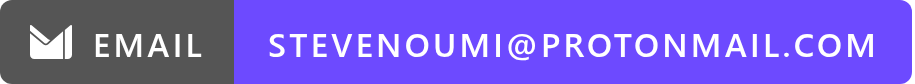
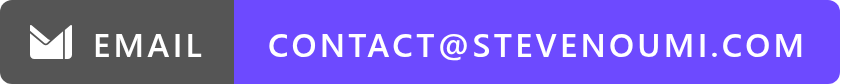
Contact email: contact@stevenoumi.com

Changed region(s): [[0.0308, 0.0, 0.9561, 1.0], [0.987, 0.9286, 1.0, 1.0], [0.987, 0.0, 1.0, 0.0714]]

diff --git a/README.md b/README.md
@@ -8,7 +8,7 @@
 <p align="center">
 <a href="https://www.linkedin.com/in/stevenoumi"><picture><source media="(max-width: 600px)" srcset="assets/badges/linkedin-m.png"><img src="assets/badges/linkedin.png" height="28" alt="LinkedIn: stevenoumi"></picture></a>
 <a href="https://gitlab.com/stevenoumi"><picture><source media="(max-width: 600px)" srcset="assets/badges/gitlab-m.png"><img src="assets/badges/gitlab.png" height="28" alt="GitLab: stevenoumi"></picture></a>
-<a href="mailto:stevenoumi@protonmail.com"><picture><source media="(max-width: 600px)" srcset="assets/badges/email-m.png"><img src="assets/badges/email.png" height="28" alt="Email: stevenoumi@protonmail.com"></picture></a>
+<a href="mailto:contact@stevenoumi.com"><picture><source media="(max-width: 600px)" srcset="assets/badges/email-m.png"><img src="assets/badges/email.png" height="28" alt="Email: contact@stevenoumi.com"></picture></a>
 </p>
 
 ### Hi, I'm Steve
@@ -64,5 +64,5 @@ Open to conversations about AI, cloud, innovation and entrepreneurship.
 <p align="center">
 <a href="https://www.linkedin.com/in/stevenoumi"><picture><source media="(max-width: 600px)" srcset="assets/badges/linkedin-m.png"><img src="assets/badges/linkedin.png" height="28" alt="LinkedIn: stevenoumi"></picture></a>
 <a href="https://gitlab.com/stevenoumi"><picture><source media="(max-width: 600px)" srcset="assets/badges/gitlab-m.png"><img src="assets/badges/gitlab.png" height="28" alt="GitLab: stevenoumi"></picture></a>
-<a href="mailto:stevenoumi@protonmail.com"><picture><source media="(max-width: 600px)" srcset="assets/badges/email-m.png"><img src="assets/badges/email.png" height="28" alt="Email: stevenoumi@protonmail.com"></picture></a>
+<a href="mailto:contact@stevenoumi.com"><picture><source media="(max-width: 600px)" srcset="assets/badges/email-m.png"><img src="assets/badges/email.png" height="28" alt="Email: contact@stevenoumi.com"></picture></a>
 </p>
